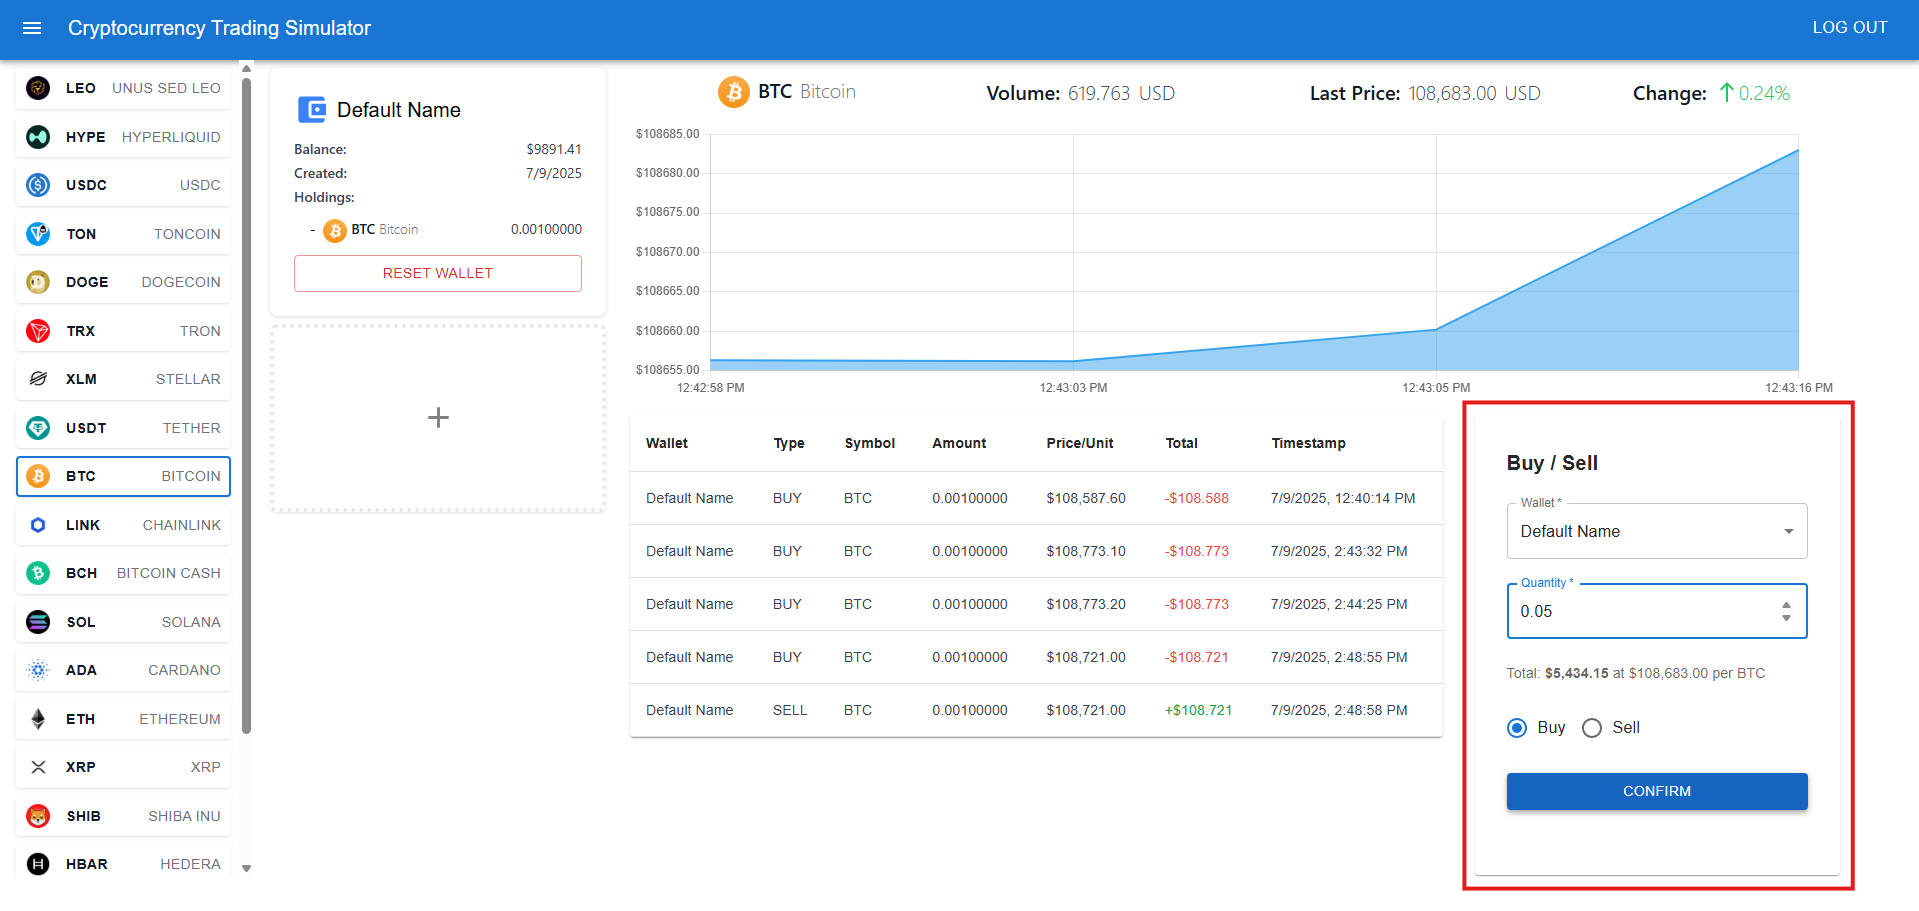
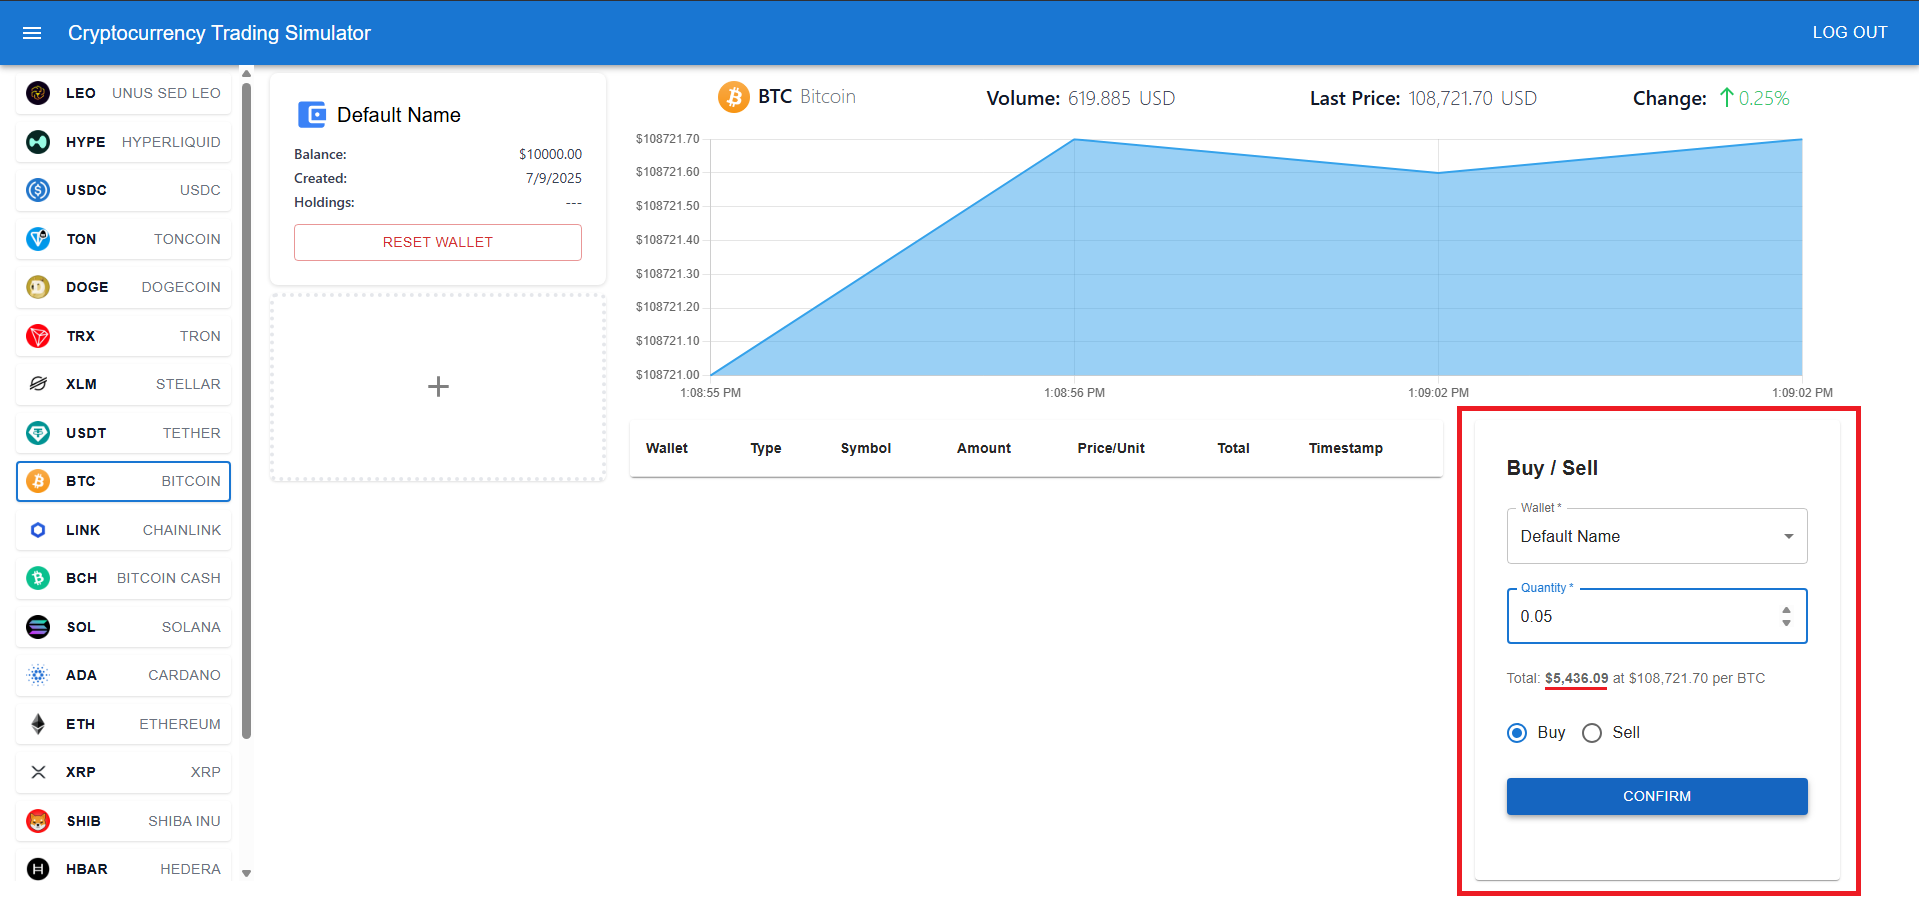
updated screenshots

diff --git a/frontend/src/components/TransactionList.tsx b/frontend/src/components/TransactionList.tsx
@@ -55,7 +55,7 @@ function TransactionList() {
                         <TableBody>
                             {transactions
                                 .filter((tx: Transaction) => tx.currencyId == selectedCurrency!.id)
-                                .sort((tx1: Transaction, tx2: Transaction) => new Date(tx1.createdAt).getTime() - new Date(tx2.createdAt).getTime())
+                                .sort((tx1: Transaction, tx2: Transaction) => new Date(tx2.createdAt).getTime() - new Date(tx1.createdAt).getTime())
                                 .map((tx: Transaction) => (
                                     <TableRow key={tx.id}>
                                         <TableCell>

diff --git a/frontend/src/components/WalletProvider.tsx b/frontend/src/components/WalletProvider.tsx
@@ -105,9 +105,10 @@ function WalletProvider({ children }: any) {
     }
 
     const updateFromTransaction = async (transaction: Transaction) => {
+        const total = transaction.quantity * transaction.price;
         setWallets(
             wallets.map(w => w.id === transaction.walletId ?
-                { ...w, balance: w.balance - transaction.quantity * transaction.price }
+                { ...w, balance: (transaction.type == 'BUY' ? w.balance - total : w.balance + total) }
                 : w
             )
         );
